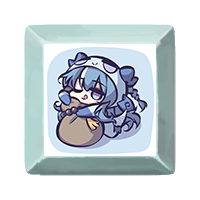
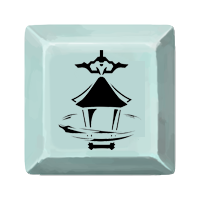
换了个皮

Changed region(s): [[0.21, 0.21, 0.78, 0.78]]

diff --git a/docs/_汇总.md b/docs/_汇总.md
@@ -41,7 +41,8 @@ sort isdone ASC
 ```dataview
 TABLE 
 	Rarity AS "稀有度",
-	DESCRIPTION AS "效果"
+	DESCRIPTION AS "效果",
+	isdone
 from "relic"
 sort isdone ASC
 ```

diff --git a/docs/card/羽化ALT.md b/docs/card/羽化ALT.md
@@ -1,0 +1,6 @@
+---
+Rarity: 金
+Type: 技能
+Cost: 1
+DESCRIPTION: 消耗. 在卡牌中加入3张随机能力卡，在本场战斗中消耗为0
+---

diff --git a/docs/card/逍遥游.md b/docs/card/逍遥游.md
@@ -3,6 +3,7 @@ Rarity: 稀有
 Type: 能力
 Cost: 2
 DESCRIPTION: 每回合 **抽牌数++**
+isdone: "1"
 ---
 
 类型：不是诗

diff --git a/docs/relic/金刚杵ALT.md b/docs/relic/金刚杵ALT.md
@@ -1,7 +1,7 @@
 ---
 Rarity: 普通
 DESCRIPTION: 所有怪物失去1力量
-
+isdone: "1"
 ---
 
 
